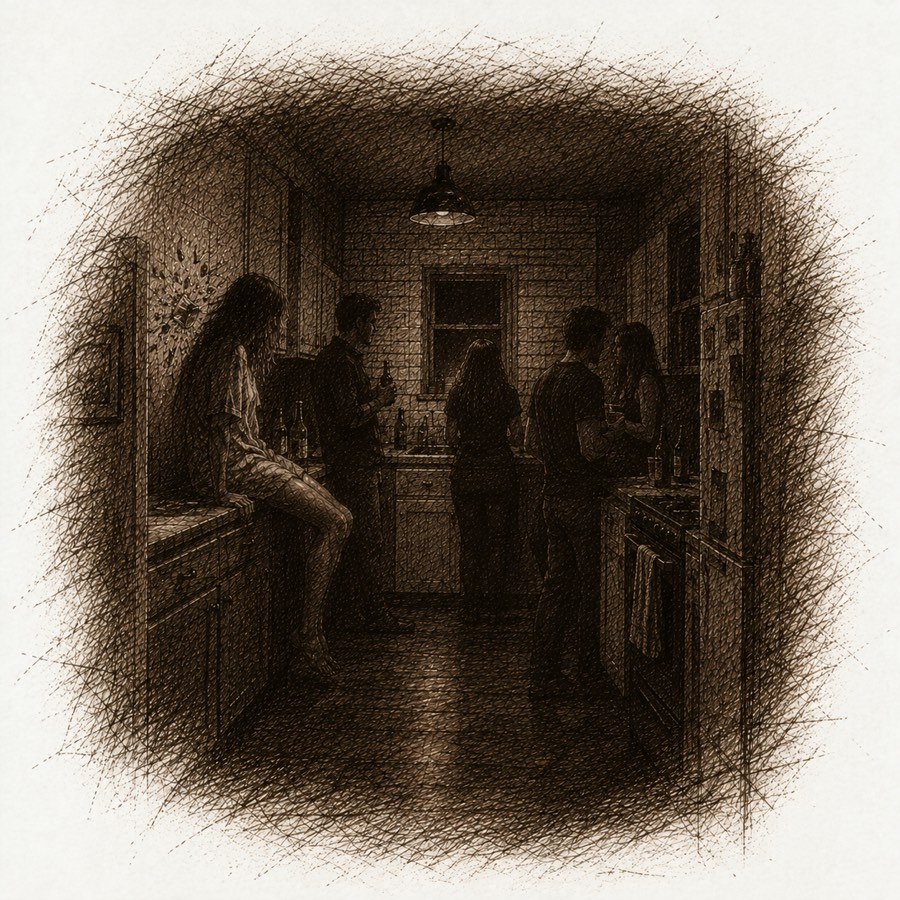
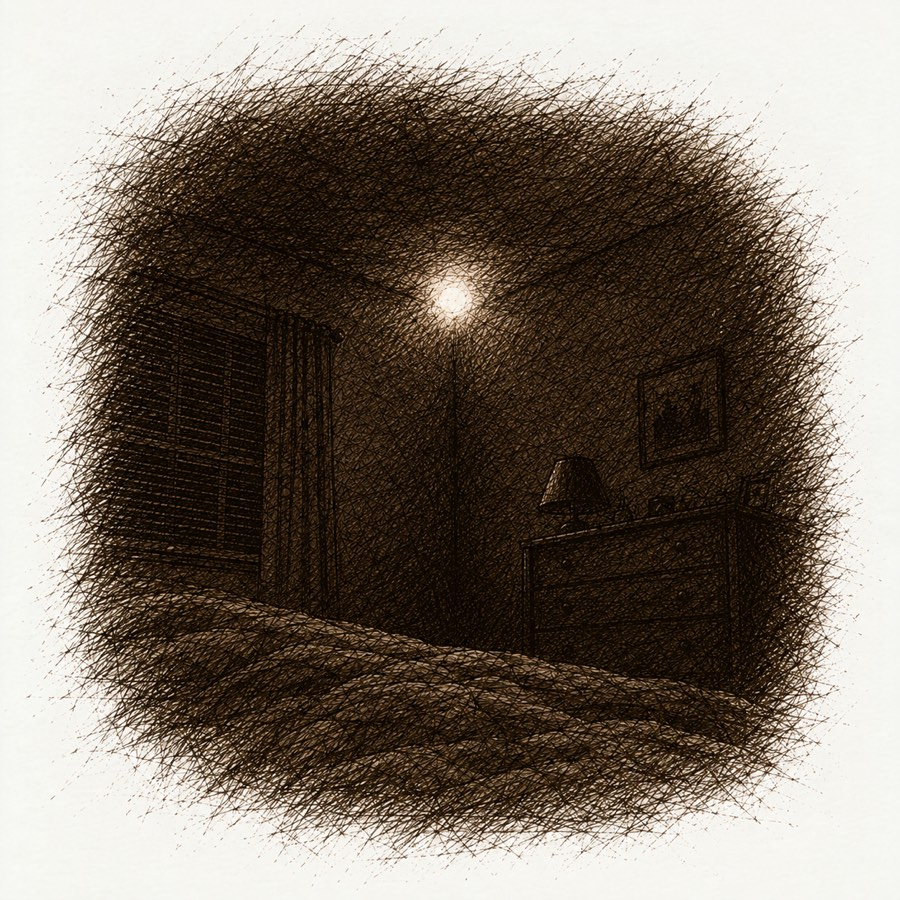
Report 007: drop the glass sketch (#40)
It followed the kitchen layout photo too closely. The ball of light
becomes sketch-4 so the files stay in reading order.

Part of #35.

diff --git a/content/reports/007.html b/content/reports/007.html
@@ -37,7 +37,6 @@
 <p>Wanting some kind of normalcy, we started using safety in numbers as a coping mechanism. We began inviting friends over to the apartment, hoping a crowded room would force whatever was happening to stop. One evening, we had a group of about five or six friends over. We were all casually hanging out and chatting across the kitchen cutout. My friend Lindsay was sitting on the edge of the counter, directly opposite the sink and the drying rack that I had shoved all the way to the back.</p>
 <figure><img alt="" loading="lazy" src="images/reports/007/04.png"/><figcaption>A Bell Ct kitchen &amp; living room layout. Image: <a href="https://www.zumper.com/apartment-buildings/p128141/2379-bell-court-medford-or?gallery#focus=14" rel="noopener" target="_blank">zumper.com</a></figcaption></figure>
 <p>I was standing in the kitchen entrance when I saw a flash of movement out of the corner of my eye. One of the drinking glasses physically lifted out of the dish drying rack in the back corner, flew across the width of the kitchen, and violently smashed into the subway tile right behind Lindsay’s head. It missed her by inches.</p>
-<figure class="sketch"><img alt="Ink sketch: a woman sitting on a kitchen counter as a glass smashes into the tiles behind her head, with friends standing nearby." height="900" loading="lazy" src="images/reports/007/sketch-4.jpg" width="900"/></figure>
 <p>It hit the wall with such force that it literally pulverized into tiny shards of glass. Lindsay immediately burst into tears. The rest of us stood there in absolute shock. Survival mode kicked in, and I ordered everyone out of the apartment. Before I left, I spoke to the empty room, telling whatever was there that it needed to leave and wasn’t welcome. This was the first time I had openly spoke to whatever was in the apartment. We all slept at a friend’s house that night.</p>
 <h3>Conclusion</h3>
 <p>For Jesse, this was the final straw. She packed a bag, went to work, and then went to stay with her boyfriend. She never spent another night in the apartment.</p>
@@ -55,7 +54,7 @@
 <p>At the time, I was in college and living in my childhood home in Arizona. For context, the house was built in 1970. My family were only the second residents, and there was absolutely no dark history attached to the property, no tragic deaths, no creepy folklore. It was just a normal, safe family home where I had lived my entire life without incident.</p>
 <p>One weekend, a best friend of mine was visiting from California. It was around 3:00 AM, and we were both fast asleep in my room. Suddenly, we were both jolted awake by the distinct sound of someone whispering.</p>
 <p>The sound wasn’t coming from the hallway or outside the window. It sounded like it was coming from above our heads in the top corner of the bedroom. Neither of us could make out any specific words; it was just a localized, disembodied, whispery noise.</p>
-<figure class="sketch"><img alt="Ink sketch: a glowing ball of light in the top corner of a dark bedroom, seen from the bed." height="900" loading="lazy" src="images/reports/007/sketch-5.jpg" width="900"/></figure>
+<figure class="sketch"><img alt="Ink sketch: a glowing ball of light in the top corner of a dark bedroom, seen from the bed." height="900" loading="lazy" src="images/reports/007/sketch-4.jpg" width="900"/></figure>
 <p>Startled, we both turned our attention to the upper corner of the room where the sound was coming from. Hovering right there in the darkness was a distinct, glowing ball of light. It hung there for a moment before simply dissipating into thin air.</p>
 <p>Confused and feeling a little uneasy, my friend and I just looked at each other, asked, “What the hell was that?”, and then, exhausted, went right back to sleep.</p>
 <p>The next morning, the rationalization kicked into high gear. We tried to convince ourselves it was just a rogue car headlight shining through the glass. Deep down, I knew the layout of the house and the angle of the windows made that physically impossible. But we were young, and neither of us wanted to entertain the idea of a ghost.</p>
